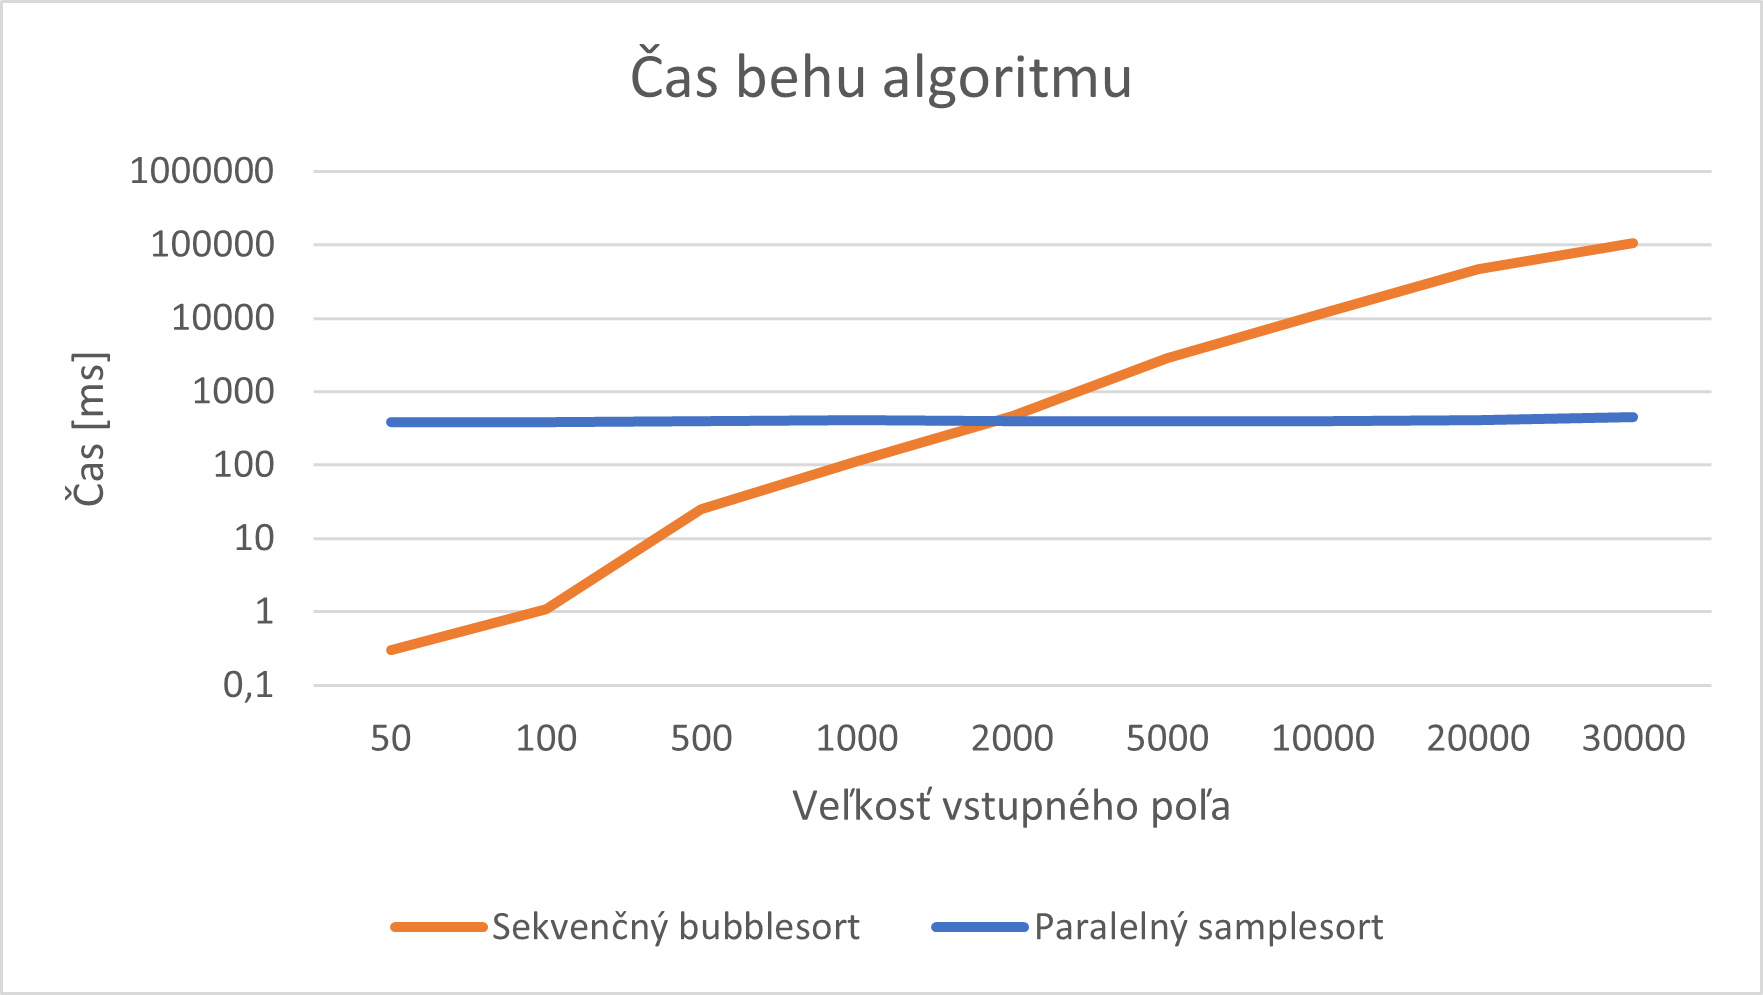
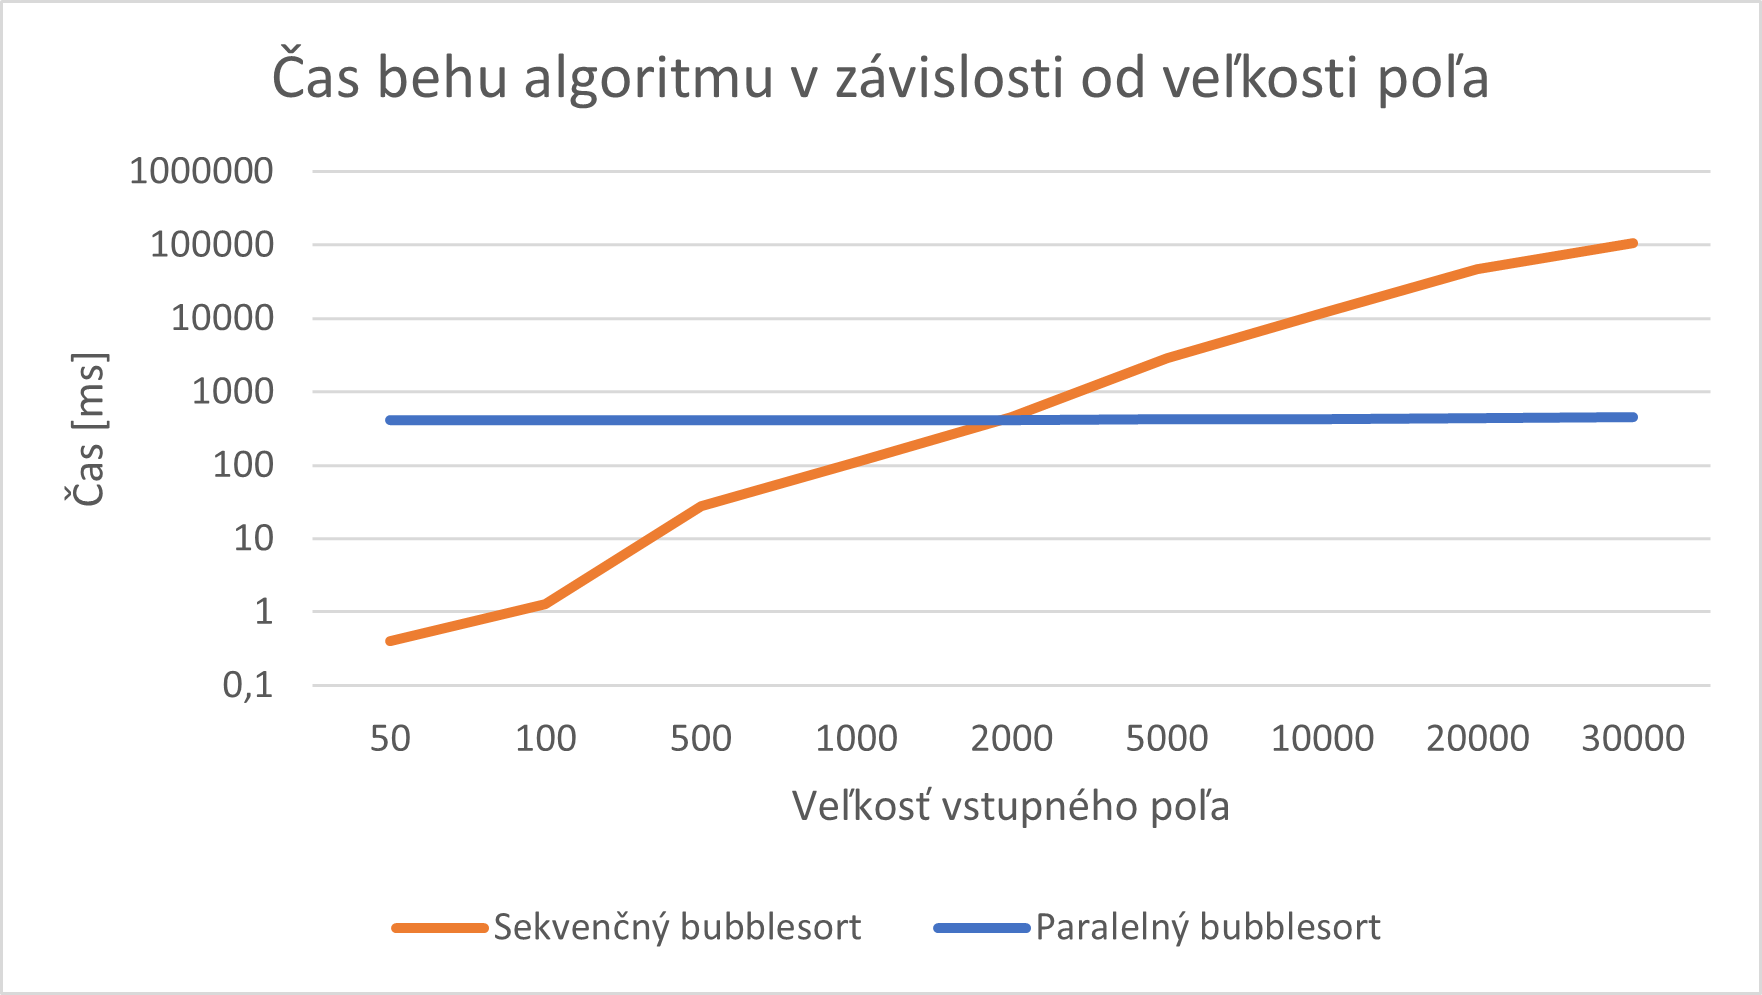
docs: modification of experiments

diff --git a/README.md b/README.md
@@ -40,7 +40,8 @@ vlákien v bloku**.
 
 ## Porovnanie algoritmov
 Paralelnú implementáciu **samplesortu** som porovnala so sekvenčnou
-verziou **bubblesortu**. Pri jednotlivých meraniach som prvky poľa 
+verziou **bubblesortu** na zariadeni s grafickou kartou **NVIDIA**. 
+Pri jednotlivých meraniach som prvky poľa 
 generovala náhodne v rozmedzí -500 až 500. Veľkosť poľa som postupne
 zväčšovala od 50 až po 30 000. Pre každú veľkosť poľa som realizovala
 20 meraní a z nich vypočítala priemerný čas pre oba algoritmy. Výsledky
@@ -48,17 +49,17 @@ porovnania sú znázornené v nasledujúcej tabuľke a grafe.
 
 | Veľkosť poľa    | Čas - sekvenčného bubblesortu [ms] | Čas - paralelného samplesortu [ms] |
 |-----------------|------------------------------------|------------------------------------|
-| 50              | 0,3                                | 379,8                              |
-| 100             | 1,1                                | 382,5                              |
-| 500             | 25,4                               | 398,4                              |
-| 1 000           | 113                                | 408,7                              |
-| 2 000           | 466,7                              | 397,8                              |
-| 5 000           | 2882,1                             | 397,7                              |
-| 10 000          | 11642,2                            | 396,3                              |
-| 20 000          | 46869,4                            | 411,6                              |
-| 30 000          | 104907,7                           | 447,7                              |
+| 50              | 0,4                                | 408,3                              |
+| 100             | 1,3                                | 410,3                              |
+| 500             | 27,7                               | 411,8                              |
+| 1 000           | 110,3                              | 414,3                              |
+| 2 000           | 456,5                              | 417,8                              |
+| 5 000           | 2889,3                             | 418,5                              |
+| 10 000          | 11842,6                            | 419,3                              |
+| 20 000          | 46969,5                            | 440,4                              |
+| 30 000          | 104957,7                           | 450,1                              |
 
-<img src="graf.png" alt="Graf" width="650" height="300">
+<img src="graf.png" alt="Graf" width="650" height="370">
 
 Ako môžeme vidieť, čas **paralelného samplesortu** narastá veľmi pomaly
 so zväčšujúcou sa veľkosťou vstupného poľa. Zatiaľ čo čas **sekvenčného 
